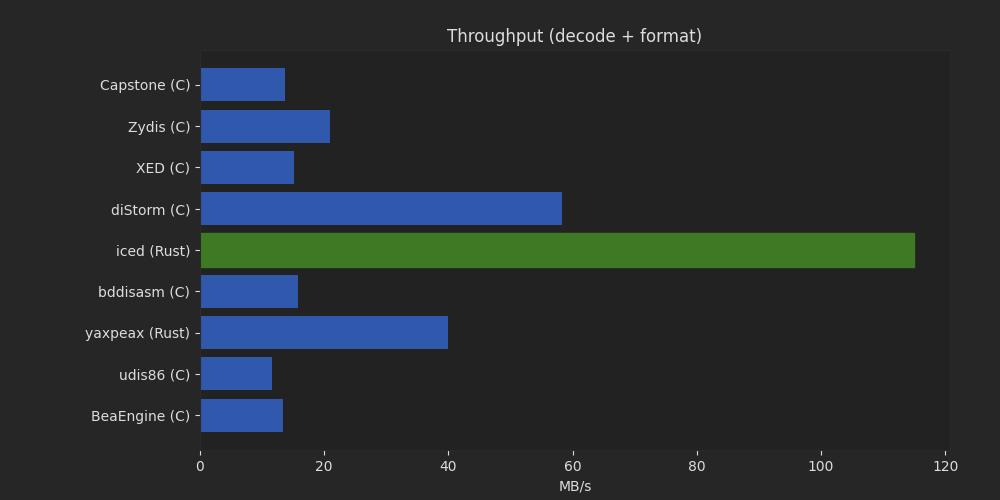
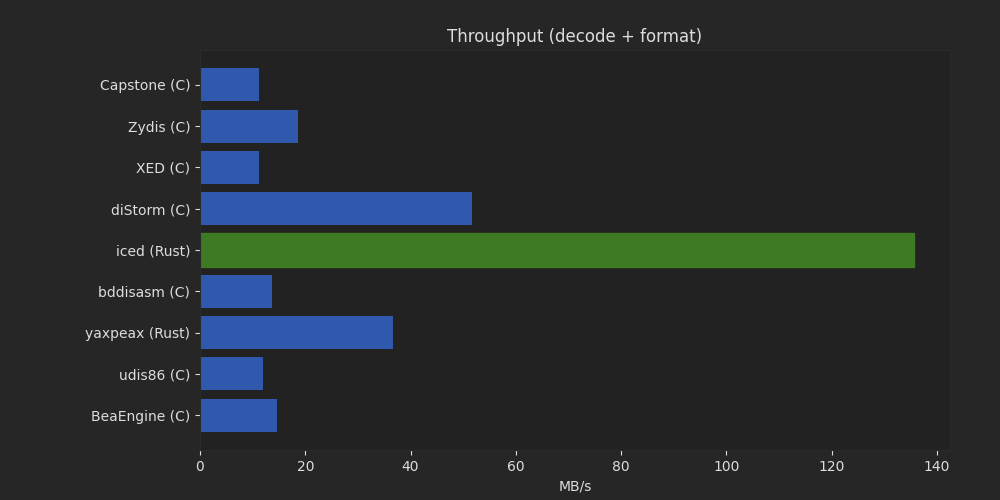
Update benchmark results

diff --git a/README.md b/README.md
@@ -5,9 +5,9 @@ This repository holds benchmarking code for various x86/x86-64 disassembler libr
 
 ## Results
 
-Ubuntu 20.04 (WSL2), GCC 8.4.0, Rust 1.50.0, i5-6600K.
+Windows 10, msvc 19.29, Rust 1.52.1, i5-6600K.
 
-Test file: xul.dll from Firefox 86.0.1.7739.
+Test file: xul.dll from Firefox 86.0.1.7739 (77MB code section).
 
 # decode only
 
@@ -15,14 +15,14 @@ Test file: xul.dll from Firefox 86.0.1.7739.
 
 Library | MB/s | %
 --------|------|--
-iced (Rust) | 205.95 MB/s | 100.00%
-yaxpeax (Rust) | 180.28 MB/s | 87.54%
-diStorm (C) | 91.03 MB/s | 44.20%
-udis86 (C) | 76.37 MB/s | 37.08%
-Zydis (min) (C) | 66.14 MB/s | 32.11%
-XED (C) | 55.75 MB/s | 27.07%
-bddisasm (C) | 34.97 MB/s | 16.98%
-Zydis (C) | 32.71 MB/s | 15.88%
+iced (Rust) | 257.07 MB/s | 100.00%
+yaxpeax (Rust) | 177.55 MB/s | 69.07%
+diStorm (C) | 79.95 MB/s | 31.10%
+udis86 (C) | 70.35 MB/s | 27.37%
+Zydis (min) (C) | 51.99 MB/s | 20.22%
+XED (C) | 43.45 MB/s | 16.90%
+bddisasm (C) | 33.69 MB/s | 13.10%
+Zydis (C) | 27.96 MB/s | 10.88%
 
 `BeaEngine (C)`, `Capstone (C)` don't support `decode only`.
 
@@ -33,34 +33,16 @@ Zydis (C) | 32.71 MB/s | 15.88%
 
 Library | MB/s | %
 --------|------|--
-iced (Rust) | 115.01 MB/s | 100.00%
-diStorm (C) | 58.23 MB/s | 50.63%
-yaxpeax (Rust) | 39.85 MB/s | 34.65%
-Zydis (C) | 20.99 MB/s | 18.25%
-bddisasm (C) | 15.83 MB/s | 13.77%
-XED (C) | 15.14 MB/s | 13.17%
-Capstone (C) | 13.62 MB/s | 11.84%
-BeaEngine (C) | 13.32 MB/s | 11.58%
-udis86 (C) | 11.62 MB/s | 10.10%
+iced (Rust) | 135.71 MB/s | 100.00%
+diStorm (C) | 51.66 MB/s | 38.07%
+yaxpeax (Rust) | 36.71 MB/s | 27.05%
+Zydis (C) | 18.62 MB/s | 13.72%
+BeaEngine (C) | 14.65 MB/s | 10.79%
+bddisasm (C) | 13.69 MB/s | 10.09%
+udis86 (C) | 12.00 MB/s | 8.84%
+Capstone (C) | 11.21 MB/s | 8.26%
+XED (C) | 11.18 MB/s | 8.24%
 
-
-# format only
-
-![format only](bench-fmt.png)
-
-Library | MB/s | %
---------|------|--
-iced (Rust) | 260.45 MB/s | 100.00%
-diStorm (C) | 161.59 MB/s | 62.04%
-Zydis (C) | 58.56 MB/s | 22.49%
-yaxpeax (Rust) | 51.16 MB/s | 19.64%
-bddisasm (C) | 28.94 MB/s | 11.11%
-XED (C) | 20.79 MB/s | 7.98%
-udis86 (C) | 13.70 MB/s | 5.26%
-
-`BeaEngine (C)`, `Capstone (C)` don't support `format only`.
-
-This is `time(format) = time(decode+format) - time(decode)` converted to MB/s.
 
 ## Candidates
 
